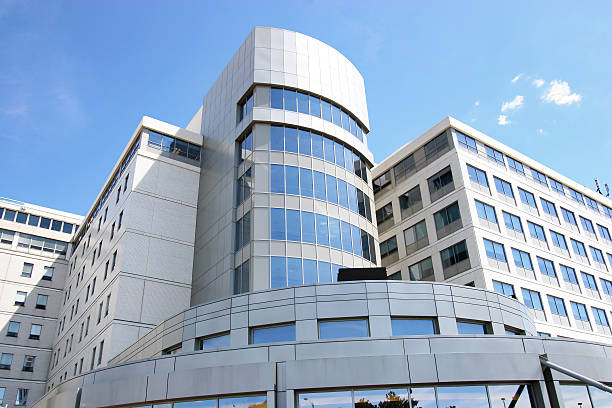
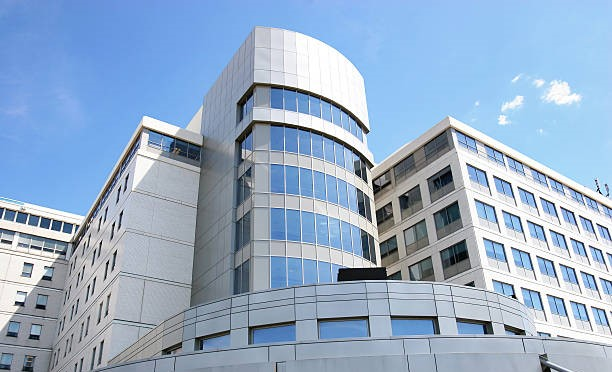
admin dashboard

diff --git a/admin/index.php b/admin/index.php
@@ -2,24 +2,97 @@
 session_start();
 error_reporting(0);
 include("includes/config.php");
-if(isset($_POST['submit']))
-{
-$uname=$_POST['username'];
-$upassword=$_POST['password'];
+include("includes/checklogin.php");
+if (isset($_POST['submit'])) {
+    $uname = $_POST['username'];
+    $upassword = $_POST['password'];
 
-$ret=mysqli_query($con,"SELECT * FROM admin WHERE username='$uname' and password='$upassword'");
-$num=mysqli_fetch_array($ret);
-if($num>0)
-{
-$_SESSION['login']=$_POST['username'];
-$_SESSION['id']=$num['id'];
-header("location:dashboard.php");
+    $ret = mysqli_query($con, "SELECT * FROM admin WHERE username='$uname' and password='$upassword'");
+    $num = mysqli_fetch_array($ret);
+    if ($num > 0) {
+        $_SESSION['login'] = $_POST['username'];
+        $_SESSION['id'] = $num['id'];
+        header("location:dashboard.php");
 
-}
-else
-{
-$_SESSION['errmsg']="Invalid username or password";
+    } else {
+        $_SESSION['errmsg'] = "Invalid username or password";
 
-}
+    }
 }
 ?>
+
+<!DOCTYPE html>
+<html lang="en">
+
+<head>
+    <meta charset="utf-8">
+    <title>Admin Login | CARE</title>
+    <meta name="viewport" content="width=device-width, initial-scale=1.0">
+    <link rel="shortcut icon" type="image/x-icon" href="assets\images\favicon.ico">
+
+    <!-- CSS -->
+    <link rel="stylesheet" href="assets/css/bootstrap.min.css">
+    <link rel="stylesheet" href="assets/css/font-awesome.min.css">
+    <link rel="stylesheet" href="assets/css/style.css">
+</head>
+
+<body>
+
+    <div class="main-wrapper account-wrapper">
+        <div class="account-page">
+            <div class="account-center">
+                <div class="account-box">
+                    <form class="form-signin" method="post">
+                        <div class="account-logo">
+                            <a href="index.php"><img src="assets/images/logo-dark.png" alt="CARE"></a>
+                        </div>
+
+                        <h4 class="text-center">Admin Login</h4>
+
+                        <p style="color:red;" class="text-center">
+                            <?php echo htmlentities($_SESSION['errmsg']); ?>
+                            <?php echo htmlentities($_SESSION['errmsg'] = ""); ?>
+                        </p>
+
+                        <div class="form-group">
+                            <label>Username</label>
+                            <input name="username" type="text" class="form-control" placeholder="Enter username"
+                                required>
+                        </div>
+
+                        <div class="form-group">
+                            <label>Password</label>
+                            <input name="password" type="password" class="form-control" placeholder="Enter password"
+                                required>
+                        </div>
+
+                        <div class="form-group text-right">
+                            <a href="#">Forgot your password?</a>
+                        </div>
+
+                        <div class="form-group text-center">
+                            <button type="submit" name="submit" class="btn btn-primary account-btn">Login</button>
+                        </div>
+
+                        <div class="text-center register-link">
+                            <a href="../index.php">Back to Home Page</a>
+                        </div>
+                    </form>
+                </div>
+            </div>
+        </div>
+    </div>
+
+    <!-- JS -->
+    <script src="assets/js/jquery-3.6.0.min.js"></script>
+    <script src="assets/js/bootstrap.bundle.min.js"></script>
+    <script src="assets/js/login.js"></script>
+    <script>
+        jQuery(document).ready(function () {
+            Main.init();
+            Login.init();
+        });
+    </script>
+</body>
+
+</html>
